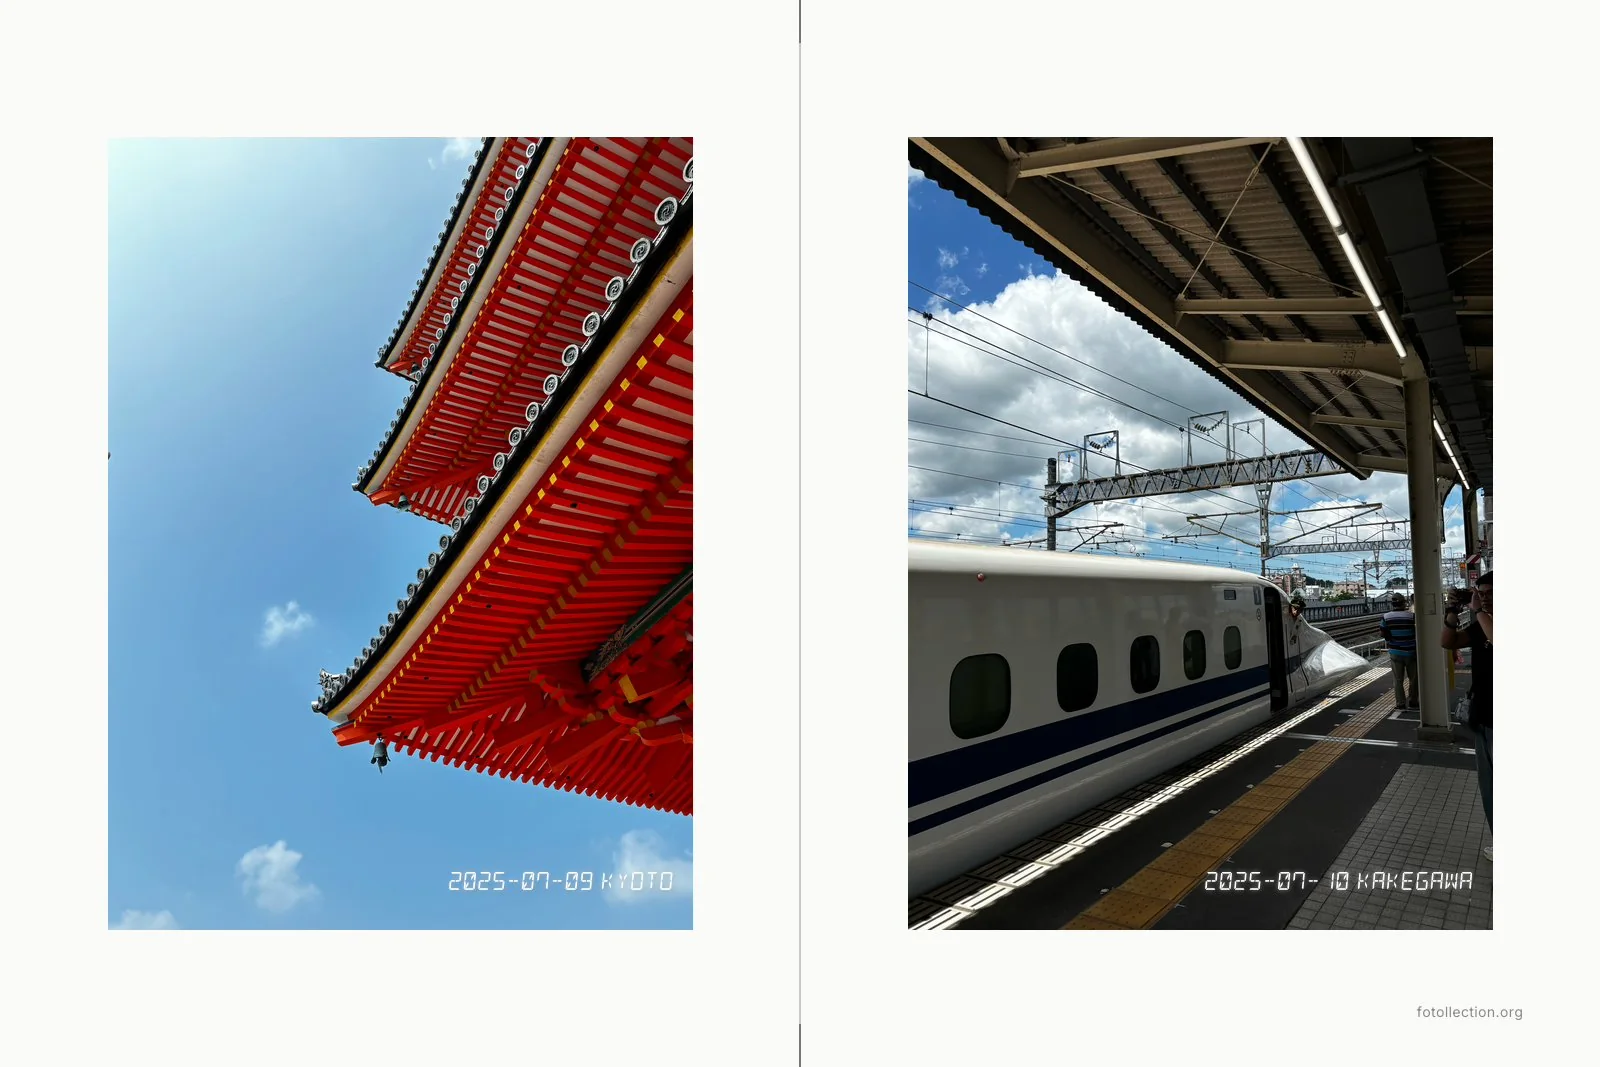
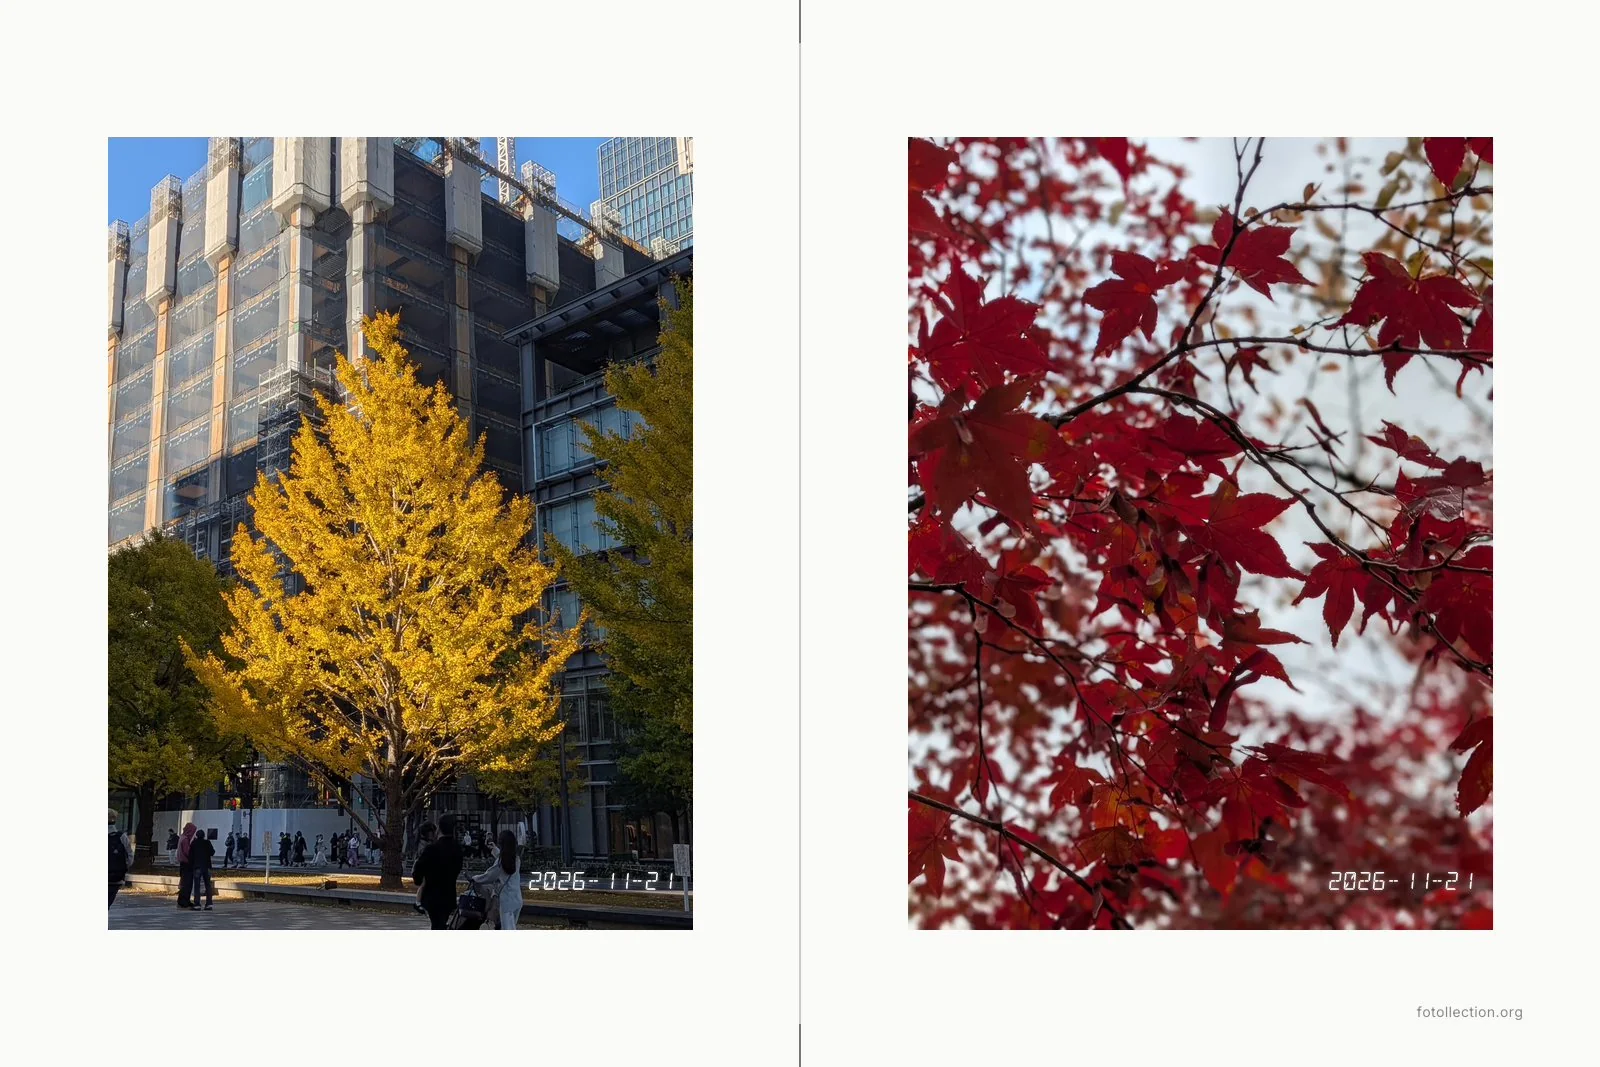
docs(site): the Japanese landing page laid out as the Korean one, two rows of two prints, @hong__tr's autumn on the date stamp and the two-photo sheet, the info frames on the owner's photos with their EXIF [FR-135]

diff --git a/site/screenshots/results.py b/site/screenshots/results.py
@@ -23,9 +23,12 @@ ROOT = Path(__file__).resolve().parents[2]
 # The postcards are the language's demo cards (demo.rs `postcard_demos`); the stamp, the sheet
 # and the frame use photos the set shows best, none repeating the postcards' places.
 PICKS = {
+    # Laid out as the Korean page (owner, 2026-11-21): two rows of two. @hong__tr's autumn, sent
+    # without EXIF, on the prints that need none of a camera's facts (the stamp and the sheet);
+    # the info frames keep the owner's photos, whose camera and settings they print.
     "ja": {"card": ("sheet-postcard-full", "IMG_5773"), "card2": ("sheet-postcard", "Gokurakuji"),
-           "stamp": ("preview/stamp", "IMG_5745"), "sheet": ("sheet", ("IMG_4329", "IMG_4421")),
-           "frame": ("preview/frame", "IMG_5758")},
+           "stamp": ("preview/stamp", "hongtr-road"), "sheet": ("sheet", ("hongtr-ginkgo", "hongtr-maple")),
+           "frame": ("preview/frame", "IMG_5758"), "frame2": ("preview/frame", "IMG_4329")},
     "ko": {"card": ("sheet-postcard-full", "DSCF2041"), "card2": ("sheet-postcard", "DSC06332"),
            "stamp": ("preview/stamp", "DSC06335"), "sheet": ("sheet", ("DSCF1972", "DSCF1975")),
            "frame": ("preview/frame", "DSCF2022"), "frame2": ("preview/frame", "DSC06325")},
@@ -53,6 +56,8 @@ def repeats(picks: dict) -> list[str]:
 # Who took each photo, by file name (credited under each print, owner 2026-11-15; the page's
 # fn_photos note says the rest). The camera comes from the photo's EXIF in the recording.
 def author(stem: str) -> str:
+    if stem.startswith("hongtr-"):
+        return "@hong__tr"
     if stem.startswith("DSCF"):
         return "@9adox"
     if stem.startswith(("IMG_14", "DSC0")):  # ZV-1 files: DSC0…, the phone's IMG_14…

diff --git a/site/screenshots/README.md b/site/screenshots/README.md
@@ -34,7 +34,7 @@ The site shows a language's set when `site/_data/languages.yml` gives it `assets
 
 ## The Japanese and Korean pages' photos
 
-[PRD FR-130](../../docs/PRD.md#fr-130--the-japanese-postcard), *Its pictures* (owner, 2026-11-15). **Japanese** ([`demo_set.ja.txt`](demo_set.ja.txt)): the owner's photos of Japan, *JAPAN DEMO by hoangphi01* (iPhone 15 and 16 Pro, GPS whole: the screenshots show the city the app reads from it, never the coordinates), and the owner's Gokurakuji station for the はがき (`JAPAN POSTCARD.jpg`, copied as `Gokurakuji.jpg`); © @hoangphi01, all rights reserved. **Korean** ([`demo_set.ko.txt`](demo_set.ko.txt)): Seoul by @9adox (Fujifilm XF10, EXIF whole, no GPS) and @imyourctus (Sony ZV-1: *KOR image*, its EXIF lost in transit, and *fall in seoul 2026*, the originals with their EXIF, 2026-11-15; the date-stamp print is DSC06335, the second info frame on the Korean landing page DSC06325, so a Sony frame shows beside the Fujifilm one; no photo of a person is used); © each photographer, all rights reserved, credited in the Korean pages' `fn_photos`. None is ever kept in the repository, only the screenshots that show them.
+[PRD FR-130](../../docs/PRD.md#fr-130--the-japanese-postcard), *Its pictures* (owner, 2026-11-15). **Japanese** ([`demo_set.ja.txt`](demo_set.ja.txt)): the owner's photos of Japan, *JAPAN DEMO by hoangphi01* (iPhone 15 and 16 Pro, GPS whole: the screenshots show the city the app reads from it, never the coordinates), and the owner's Gokurakuji station for the はがき (`JAPAN POSTCARD.jpg`, copied as `Gokurakuji.jpg`); © @hoangphi01, all rights reserved. The landing page's date stamp and two-photo sheet show three autumn photos by @hong__tr (a forest road on the stamp, a ginkgo in Marunouchi and maple leaves on the sheet; files named `hongtr-road`, `hongtr-ginkgo`, `hongtr-maple`; owner, 2026-11-21), sent without EXIF, so they sit only where no camera fact is printed (the stamp's date is the file's), the two info frames keeping the owner's IMG_5758 and IMG_4329, laid out as the Korean page's two rows of two; © @hong__tr, credited under each print and in `fn_photos`. **Korean** ([`demo_set.ko.txt`](demo_set.ko.txt)): Seoul by @9adox (Fujifilm XF10, EXIF whole, no GPS) and @imyourctus (Sony ZV-1: *KOR image*, its EXIF lost in transit, and *fall in seoul 2026*, the originals with their EXIF, 2026-11-15; the date-stamp print is DSC06335, the second info frame on the Korean landing page DSC06325, so a Sony frame shows beside the Fujifilm one; no photo of a person is used); © each photographer, all rights reserved, credited in the Korean pages' `fn_photos`. None is ever kept in the repository, only the screenshots that show them.
 
 ## The owner's photos
 
